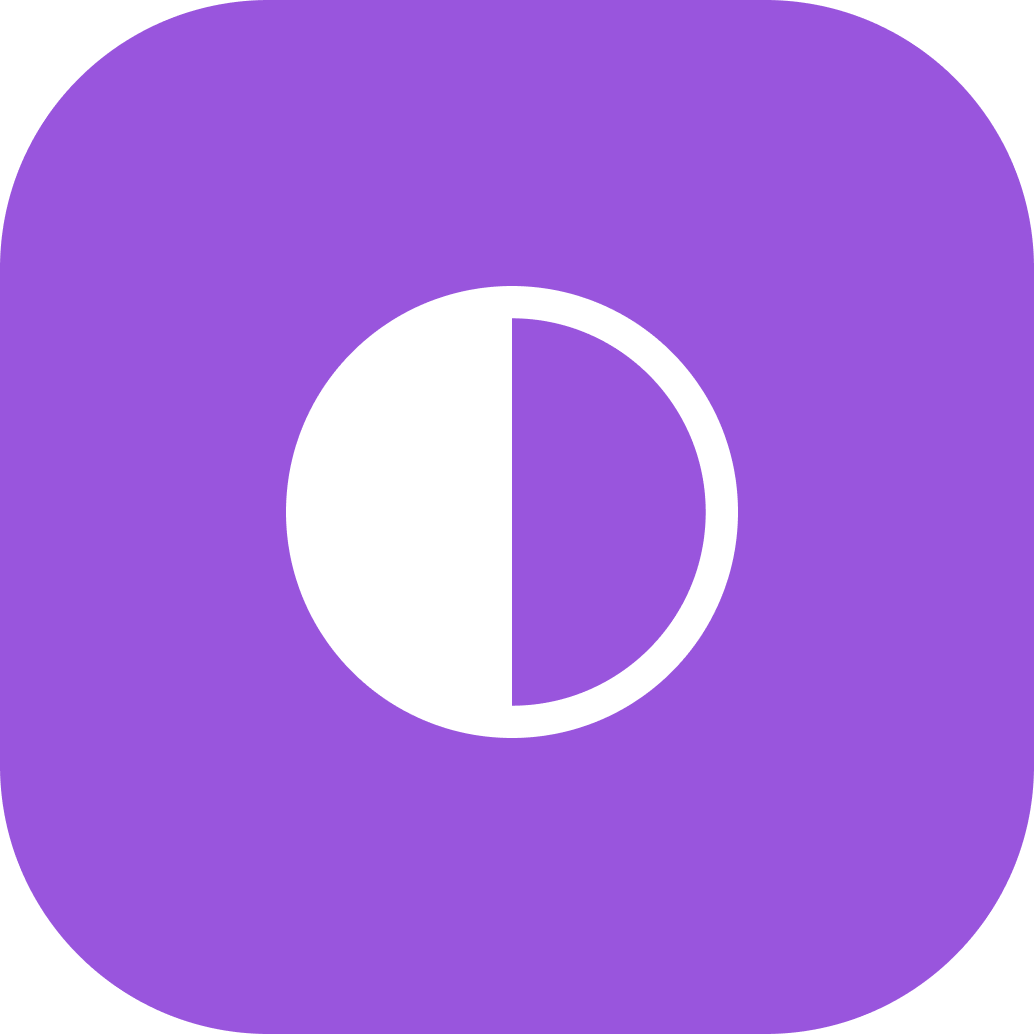
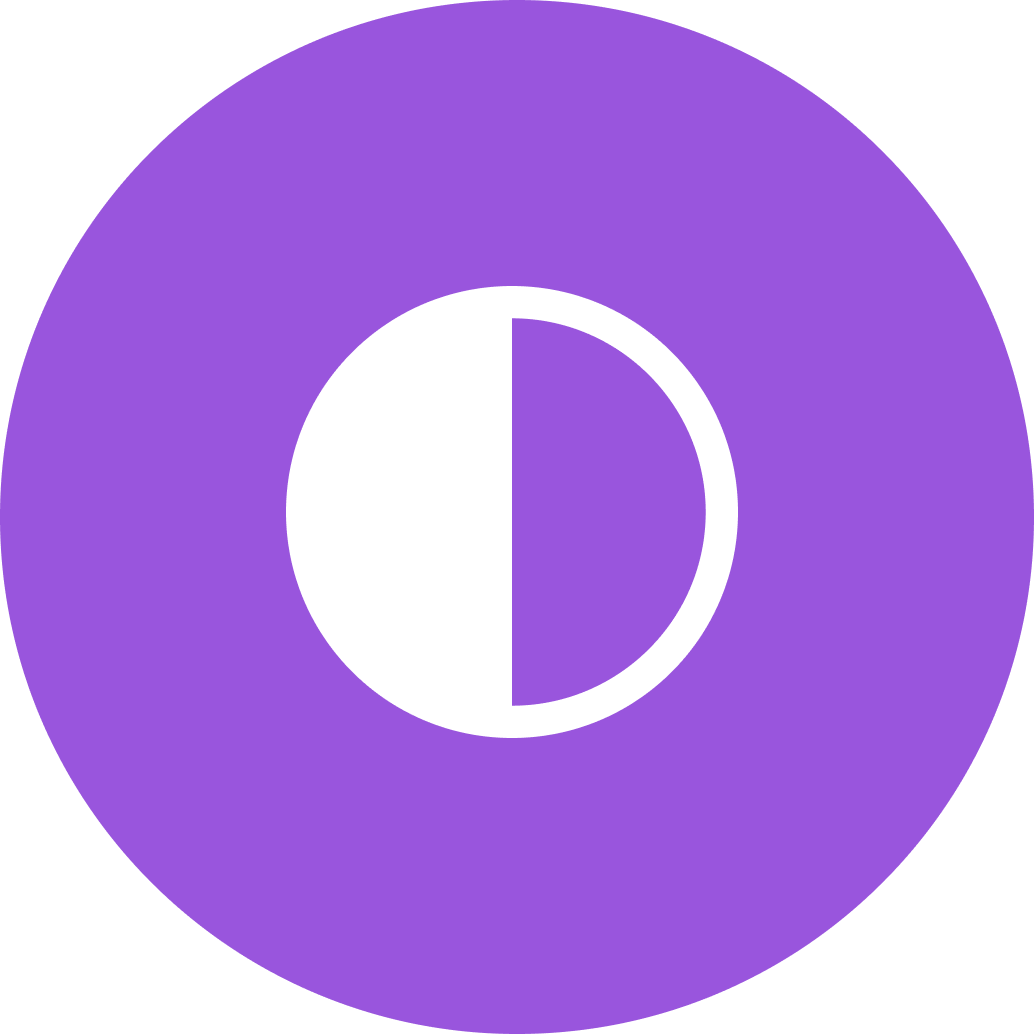
small changes

diff --git a/README.md b/README.md
@@ -8,9 +8,9 @@
 ext install fooxly.themeswitch
 ```
 
-[![Version](https://vsmarketplacebadge.apphb.com/version-short/fooxly.themeswitch.svg)](https://marketplace.visualstudio.com/items?itemName=fooxly.themeswitch)
-[![Installs](https://vsmarketplacebadge.apphb.com/installs-short/fooxly.themeswitch.svg)](https://marketplace.visualstudio.com/items?itemName=fooxly.themeswitch)
-[![Ratings](https://vsmarketplacebadge.apphb.com/rating-short/fooxly.themeswitch.svg)](https://marketplace.visualstudio.com/items?itemName=fooxly.themeswitch)
+[![Version](https://vsmarketplacebadge.apphb.com/version-short/Fooxly.themeswitch.svg)](https://marketplace.visualstudio.com/items?itemName=fooxly.themeswitch)
+[![Installs](https://vsmarketplacebadge.apphb.com/installs-short/Fooxly.themeswitch.svg)](https://marketplace.visualstudio.com/items?itemName=fooxly.themeswitch)
+[![Ratings](https://vsmarketplacebadge.apphb.com/rating-short/Fooxly.themeswitch.svg)](https://marketplace.visualstudio.com/items?itemName=fooxly.themeswitch)
 [![License: MIT](https://img.shields.io/badge/License-MIT-brightgreen.svg)](https://github.com/Fooxly/themeswitch/blob/master/LICENSE)
 ![PRs Welcome](https://img.shields.io/badge/PRs-welcome-brightgreen.svg)
 

diff --git a/CHANGELOG.md b/CHANGELOG.md
@@ -1,5 +1,15 @@
 # Change Log
 
+## [1.0.1] - 2020-04-11
+
+### Changed
+
+- Extension icon
+
+### Fixed
+
+- README.md extension banners
+
 ## [1.0.0] - 2020-04-11
 
 ### Added
